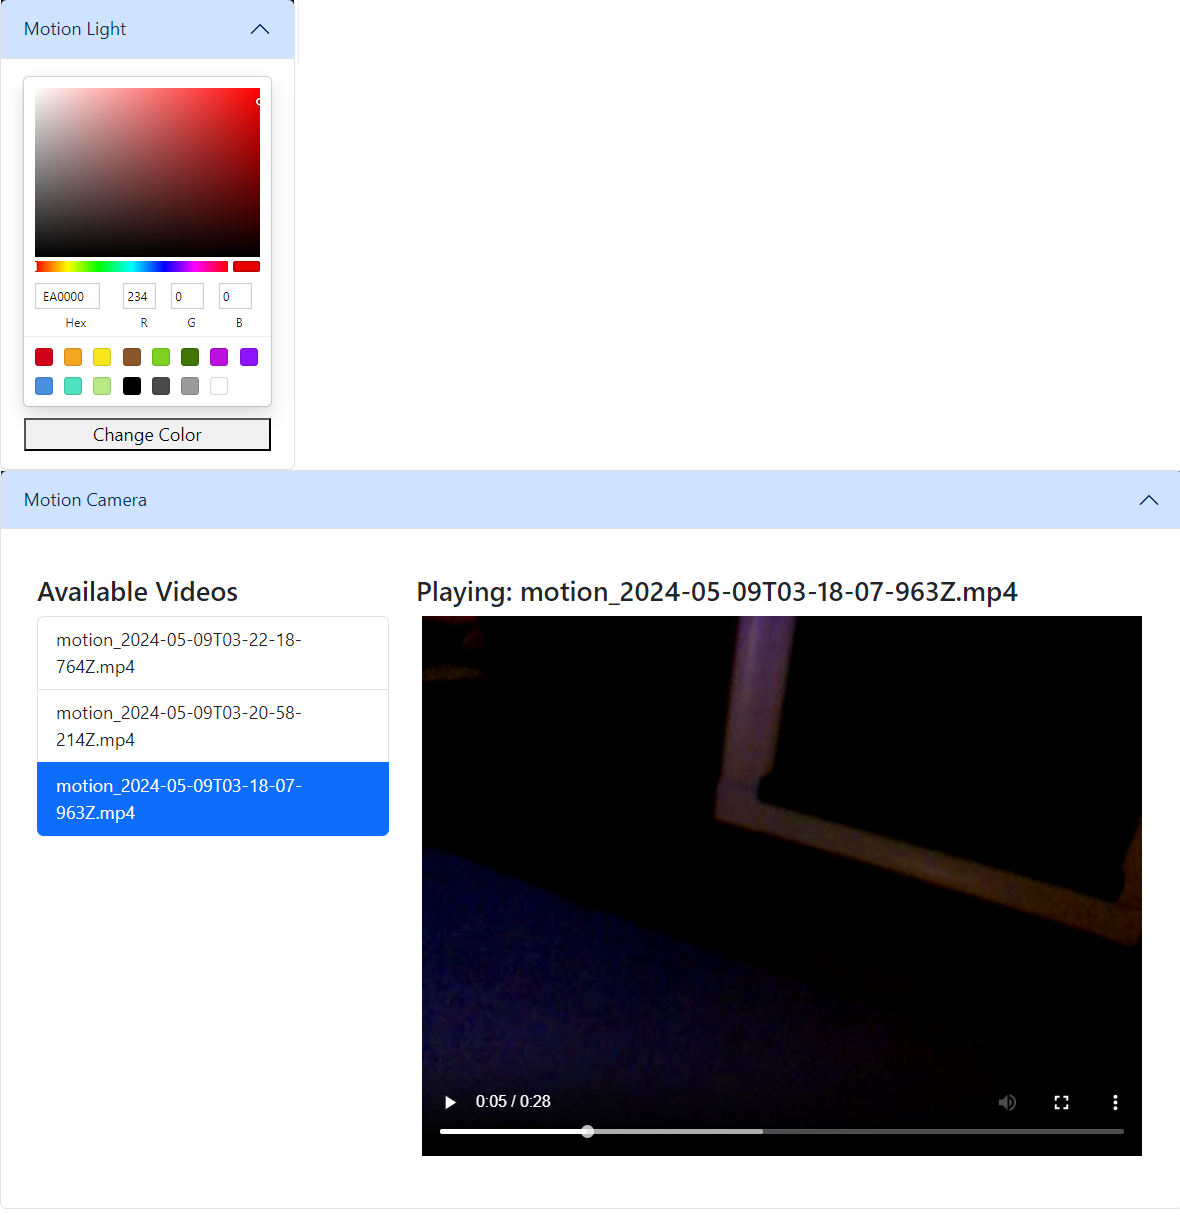
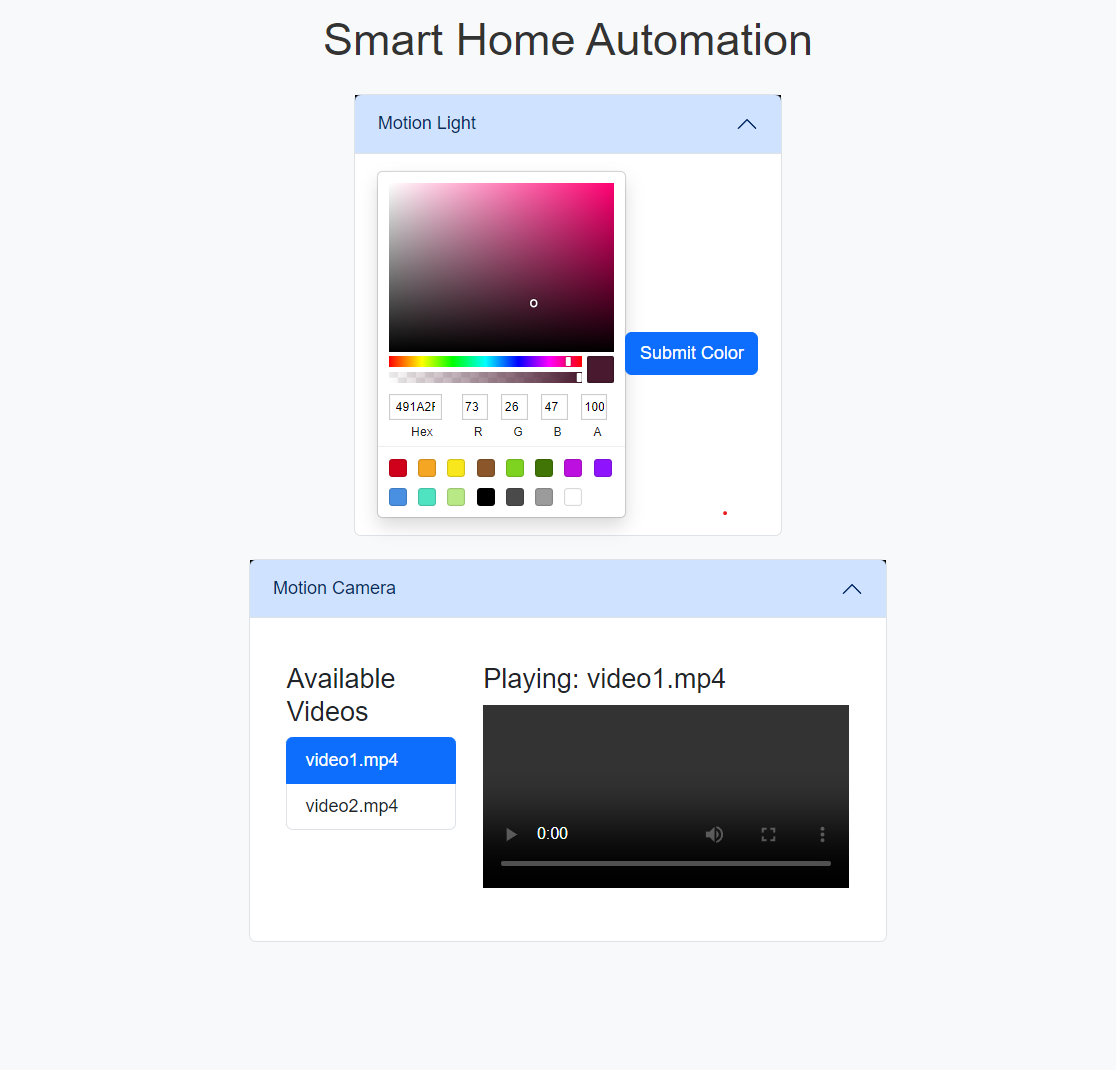
Adjusted Styling

diff --git a/frontend/src/App.tsx b/frontend/src/App.tsx
@@ -1,11 +1,13 @@
 import React, { useState } from "react";
 import { RGBColor } from "react-color";
-import MotionCameraAccordion from "./Components/VideoPlayerAccordion";
+import MotionCameraAccordion from "./Components/MotionCameraAccordion";
 import MotionLightAccordion from "./Components/MotionLightAccordion";
+import 'bootstrap/dist/css/bootstrap.min.css';
+import "./App.css"; 
 import axios from "axios";
 
 const App: React.FC = () => {
-  const [color, setColor] = useState({ r: 255, g: 255, b: 255 });
+  const [color, setColor] = useState<RGBColor>({ r: 255, g: 255, b: 255 });
 
   const handleColorChange = (color: RGBColor) => {
     setColor(color);
@@ -16,16 +18,8 @@ const App: React.FC = () => {
     try {
       const response = await axios.post(
         "https://192.168.50.171:5500/api/change-color",
-        {
-          r,
-          g,
-          b,
-        },
-        {
-          headers: {
-            "Content-Type": "application/json",
-          },
-        }
+        { r, g, b },
+        { headers: { "Content-Type": "application/json" } }
       );
 
       if (response.status === 200) {
@@ -40,12 +34,17 @@ const App: React.FC = () => {
   };
 
   return (
-    <div>
-      <MotionLightAccordion
-        onChange={handleColorChange}
-        onSubmit={handleSubmit}
-      />
-      <MotionCameraAccordion />
+    <div className="container">
+      <header className="my-4">
+        <h1 className="text-center">Smart Home Automation</h1>
+      </header>
+      <main>
+        <MotionLightAccordion
+          onChange={handleColorChange}
+          onSubmit={handleSubmit}
+        />
+        <MotionCameraAccordion />
+      </main>
     </div>
   );
 };

diff --git a/frontend/src/Components/MotionLightAccordion.tsx b/frontend/src/Components/MotionLightAccordion.tsx
@@ -1,26 +1,34 @@
-import MotionLightControl from "./ColorSelector";
-import "bootstrap/dist/css/bootstrap.min.css";
+import { useState } from "react";
+import { SketchPicker, RGBColor, ColorResult } from "react-color";
+import 'bootstrap/dist/css/bootstrap.min.css';
 import { Accordion } from "react-bootstrap";
-import { RGBColor } from "react-color";
 import "../styles/MotionLight.css";
 
-
-type MotionAccordionProps = {
+type MotionLightProps = {
   onChange: (color: RGBColor) => void;
   onSubmit: () => void;
 };
 
-const MotionLightAccordion = (props: MotionAccordionProps) => {
+const MotionLightAccordion = (props: MotionLightProps) => {
+  const [color, setColor] = useState<RGBColor>({ r: 255, g: 255, b: 255 });
+
+  const onChangeColor = (color: ColorResult) => {
+    setColor(color.rgb);
+    props.onChange(color.rgb);
+  };
+
   return (
     <div className="accordion-container">
       <Accordion>
         <Accordion.Item eventKey="0">
           <Accordion.Header>Motion Light</Accordion.Header>
           <Accordion.Body>
-            <MotionLightControl
-              onChange={props.onChange}
-              onSubmit={props.onSubmit}
-            />
+            <div className="info-container">
+              <SketchPicker color={color} onChange={onChangeColor} />
+              <button className="btn btn-primary mt-3" onClick={props.onSubmit}>
+                Submit Color
+              </button>
+            </div>
           </Accordion.Body>
         </Accordion.Item>
       </Accordion>

diff --git a/frontend/src/Components/VideoPlayer.tsx b/frontend/src/Components/VideoPlayer.tsx
@@ -1,12 +1,13 @@
-import * as React from "react";
-import { ListGroup, Container, Row, Col, Alert } from "react-bootstrap";
-import axios from "axios";
+import React, { useState, useEffect } from 'react';
+import { Container, Row, Col, ListGroup, Alert } from 'react-bootstrap';
+import axios from 'axios';
+import 'bootstrap/dist/css/bootstrap.min.css';
 
 const VideoPlayer: React.FC = () => {
-  const [videos, setVideos] = React.useState<string[]>([]);
-  const [selectedVideo, setSelectedVideo] = React.useState<string>();
+  const [videos, setVideos] = useState<string[]>([]);
+  const [selectedVideo, setSelectedVideo] = useState<string | null>(null);
 
-  React.useEffect(() => {
+  useEffect(() => {
     const fetchVideos = async () => {
       try {
         const response = await axios.get<string[]>("/api/videos");

diff --git a/frontend/src/App.css b/frontend/src/App.css
@@ -1,38 +1,13 @@
-.App {
-  text-align: center;
+body {
+  background-color: #f8f9fa;
+  font-family: Arial, sans-serif;
 }
 
-.App-logo {
-  height: 40vmin;
-  pointer-events: none;
+header {
+  margin-bottom: 20px;
 }
 
-@media (prefers-reduced-motion: no-preference) {
-  .App-logo {
-    animation: App-logo-spin infinite 20s linear;
-  }
-}
-
-.App-header {
-  background-color: #282c34;
-  min-height: 100vh;
-  display: flex;
-  flex-direction: column;
-  align-items: center;
-  justify-content: center;
-  font-size: calc(10px + 2vmin);
-  color: white;
-}
-
-.App-link {
-  color: #61dafb;
-}
-
-@keyframes App-logo-spin {
-  from {
-    transform: rotate(0deg);
-  }
-  to {
-    transform: rotate(360deg);
-  }
+h1 {
+  font-size: 2.5rem;
+  color: #333;
 }

diff --git a/frontend/src/styles/MotionLight.css b/frontend/src/styles/MotionLight.css
@@ -1,14 +1,29 @@
 .accordion-container {
-    display: grid;
-    justify-content: left;
-    align-items: center;
-}
-.accordion-header {
-    background-color: black;
-}
-.info-container {
-    display: grid;
-    grid-gap: 10px;
+    display: flex;
     justify-content: center;
     align-items: center;
+    margin: 20px 0;
+}
+
+.accordion-header {
+    background-color: black;
+    color: white;
+}
+
+.info-container {
+    display: flex;
+    flex-direction: column;
+    align-items: center;
+}
+
+@media (max-width: 768px) {
+    .info-container {
+        flex-direction: column;
+    }
+}
+
+@media (min-width: 769px) {
+    .info-container {
+        flex-direction: row;
+    }
 }

diff --git a/frontend/src/Components/MotionCameraAccordion.tsx b/frontend/src/Components/MotionCameraAccordion.tsx
@@ -1,7 +1,7 @@
 import VideoPlayer from "./VideoPlayer";
-import "bootstrap/dist/css/bootstrap.min.css";
+import 'bootstrap/dist/css/bootstrap.min.css';
 import { Accordion } from "react-bootstrap";
-import "../styles/MotionCamera.css"
+import "../styles/MotionCamera.css";
 
 const MotionCameraAccordion = () => {
   return (

diff --git a/frontend/src/styles/MotionCamera.css b/frontend/src/styles/MotionCamera.css
@@ -1,5 +1,6 @@
 .accordion-container {
-    display: grid;
-    justify-content: left;
+    display: flex;
+    justify-content: center;
     align-items: center;
+    margin: 20px 0;
 }
